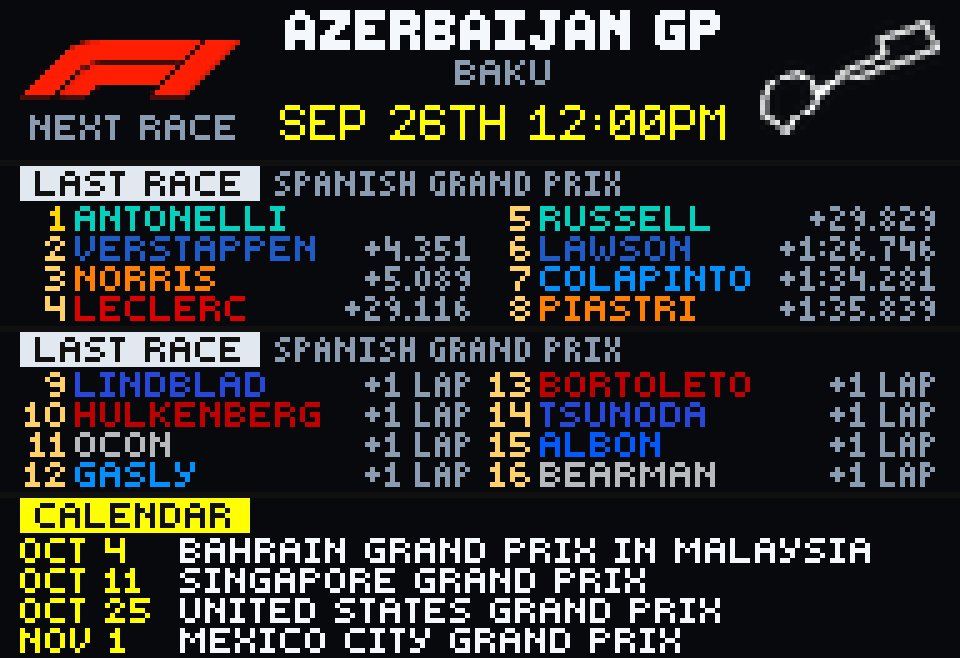
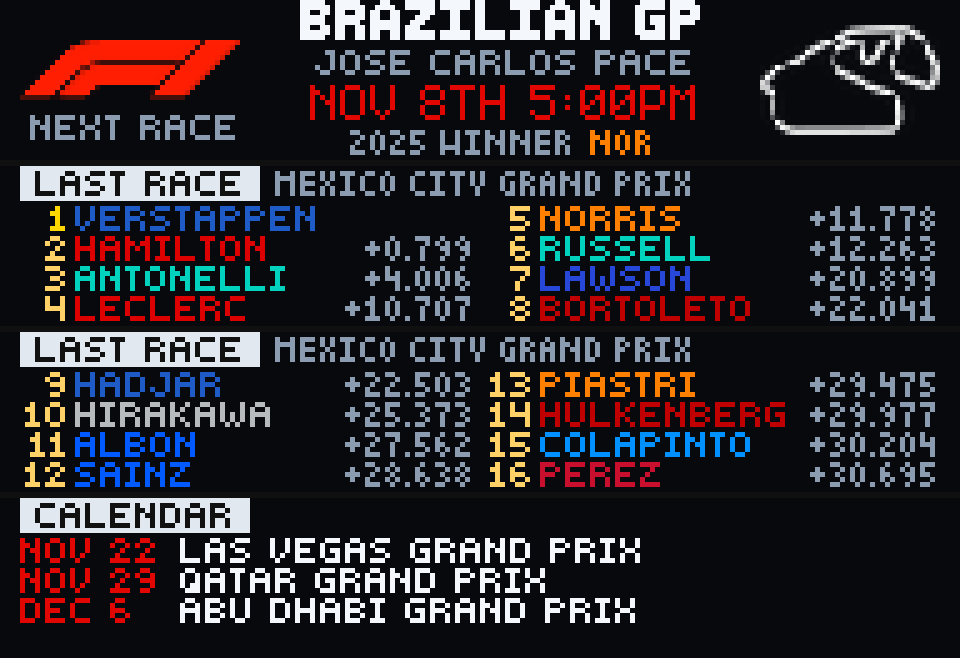
Update f1-broadcast-live (#1023)
* Update f1-broadcast-live: last winner, hold sessions, 60s refresh

The next-race page adds the last winner at that circuit (season and the
first three letters of the surname, in team color). Once a weekend starts,
the latest session stays up until the next one begins, tagged FINAL once it
ends; a finished race stays up until 11:59 PM in the chosen time zone. The
panel refreshes every 60 seconds, in line with the Glance zone.

* f1-broadcast-live: review edits (#1023)

---------

Changed region(s): [[0.0, 0.0, 1.0, 1.0], [0.8125, 0.304, 1.0, 0.4863]]

diff --git a/apps/f1-broadcast-live/README.md b/apps/f1-broadcast-live/README.md
@@ -8,10 +8,15 @@ one for between sessions:
 
 | # | between sessions | live session |
 |---|------------------|--------------|
-| 1 | F1 mark · **NEXT RACE** — grand prix · circuit · local date/time · circuit outline | F1 mark · **LIVE** — grand prix · session · flag / lap / air temp · circuit outline |
+| 1 | F1 mark · **NEXT RACE** — grand prix · circuit · local date/time · last winner there · circuit outline | F1 mark · **LIVE** (or **FINAL** once it ends) — grand prix · session · flag / lap / air temp · circuit outline |
 | 2 | **LAST RACE** — finishing order P1–8 | **ORDER P1–8** (car #, driver, tyre, gap to leader) |
 | 3 | **LAST RACE** — P9–16 | **ORDER P9–16** |
 | 4 | **CALENDAR** — the four grands prix after the next | **ORDER P17–22** |
+
+Once a race weekend starts, the latest session stays on the panel until the
+next one begins, so qualifying's order shows until the race starts. A finished
+race stays up until 11:59 PM in the chosen time zone, then the panel moves on
+to the next grand prix. The panel refreshes every 2 minutes.
 
 Air temperature on the live `event` page follows the **Temperature unit**
 dropdown (°C / °F).
@@ -20,15 +25,16 @@ dropdown (°C / °F).
 
 - **OpenF1** (`api.openf1.org`) — live position, intervals, stints, weather.
   Free, no key. There is no "current session" endpoint, so the app pulls the
-  latest session and checks it is actually inside its live window (plus an
-  end-of-day grace) before trusting it.
-- **Jolpica-Ergast** (`api.jolpi.ca`) — the calendar and the last result.
+  latest session and holds it until the next one starts (a finished race
+  only until local midnight) before falling back to the between-sessions cards.
+- **Jolpica-Ergast** (`api.jolpi.ca`) — the calendar, the last result, and
+  the last winner at the next circuit.
 
 ## Configuration
 
 - **Temperature unit** — °C or °F for the live air-temperature reading.
 - **Time zone** — grand prix dates/times are shown in this zone (F1's calendar
-  spans every region).
+  spans every region), and a finished race holds until midnight here.
 - **Date color** — accent, red, green, blue, white, yellow, magenta or cyan for
   the date/time on the next-race page and the calendar.
 
